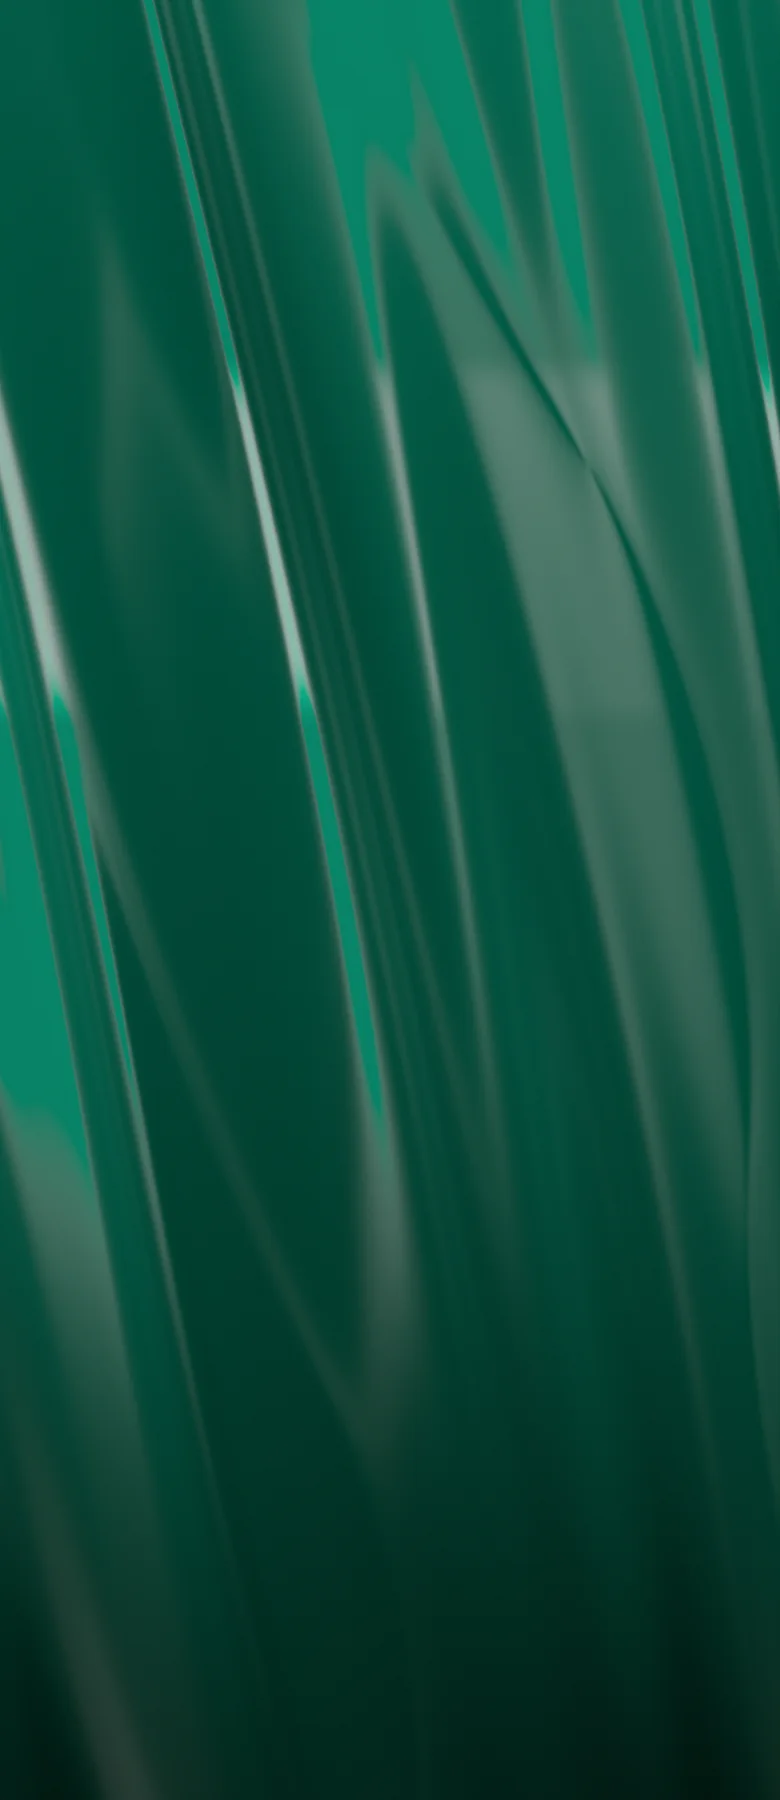
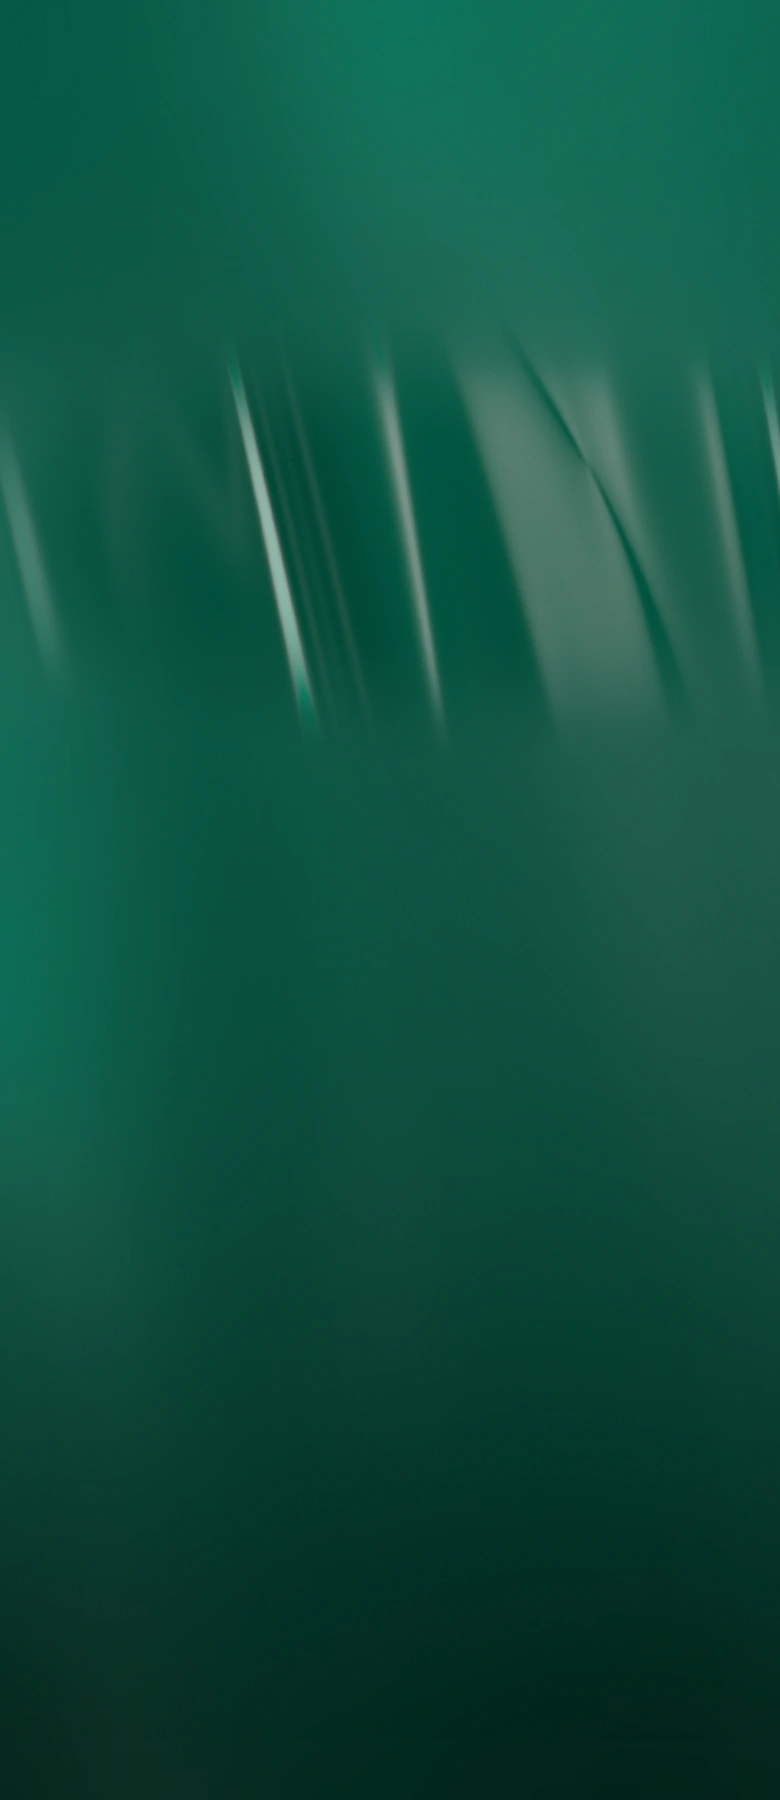
Satin ground: calm version (direction abandoned by owner; kept on branch only)
Detail confined to an oval behind the jewel, drape scrolls with the page. The owner has asked to abandon this look; not for main.

Claude-Session: https://claude.ai/code/session_01DRAcaayjo7nUq6nJStwztm

diff --git a/red-look.css b/red-look.css
@@ -321,9 +321,9 @@ html.red .hero-illustration .jewel{position:absolute;left:-1px;top:-31px;width:5
 html.red #hookStep .r-b22 li:before,html.red #hookStep .r-b22:after,html.red #formStep .r-note:last-of-type:before{background:url(img/jewel/gem.webp?v=2) center/32px auto no-repeat !important}
 
 /* ---- emerald satin ground: a rendered drape (img/jewel/drape.webp) replaces the old flat gradient. Highlights in the image are capped so white words keep 4.5:1 contrast everywhere there is text. The jewel (img/jewel/hero.webp) carries its own soft shadow. ---- */
-html.red{background:#03170f}
-html.red:not(:has(#resultsWrap[style*="block"])),html.red:not(:has(#resultsWrap[style*="block"])) body{background-color:#03170f}
+html.red{background:#042f24}
+html.red:not(:has(#resultsWrap[style*="block"])),html.red:not(:has(#resultsWrap[style*="block"])) body{background-color:#042f24}
 html.red:not(:has(#resultsWrap[style*="block"])) body{background:none}
-html.red:not(:has(#resultsWrap[style*="block"]))::before{content:"";position:fixed;inset:0;z-index:-1;pointer-events:none;background:#03170f url(img/jewel/drape.webp?v=1) center top/cover no-repeat}
+html.red:not(:has(#resultsWrap[style*="block"]))::before{content:"";position:absolute;left:0;right:0;top:0;height:230.77vw;z-index:-1;pointer-events:none;background:#042f24 url(img/jewel/drape.webp?v=2) center top/100% 100% no-repeat}
 html.red #hookStep::before{display:none}
 html.red .hero-illustration .jewel{left:-20px;top:-98px;width:470px;height:auto}

diff --git a/index.html b/index.html
@@ -853,7 +853,7 @@ html,body{overflow-x:clip !important;}
 .row-birth .row-time>div:first-child label{white-space:nowrap;}
 
 </style>
-<link rel="stylesheet" href="red-look.css?v=20261141">
+<link rel="stylesheet" href="red-look.css?v=20261142">
 <link rel="stylesheet" href="obsidian-look.css?v=8">
 <style id="btn3d">
 /* Buttons: same shapes; speckle-free copies of the button images (img/k3), real depth, words engraved into the face. */
@@ -1011,7 +1011,7 @@ html.red:has(#resultsWrap[style*="block"]) body{background:radial-gradient(ellip
 .fan-reading>.panel-auto,.fan-reading>.panel-error{padding:18px 20px !important}
 .fan-reading .dph{background:transparent !important;color:#8c1034 !important;border-bottom:1px solid #0b0b10 !important}
 </style>
-<link rel="preload" href="img/jewel/drape.webp?v=1" as="image" type="image/webp"><link rel="preload" href="img/jewel/hero.webp?v=3" as="image" type="image/webp">
+<link rel="preload" href="img/jewel/drape.webp?v=2" as="image" type="image/webp"><link rel="preload" href="img/jewel/hero.webp?v=3" as="image" type="image/webp">
 </head>
 <body>
 <svg width="0" height="0" style="position:absolute" aria-hidden="true" focusable="false"><defs>
